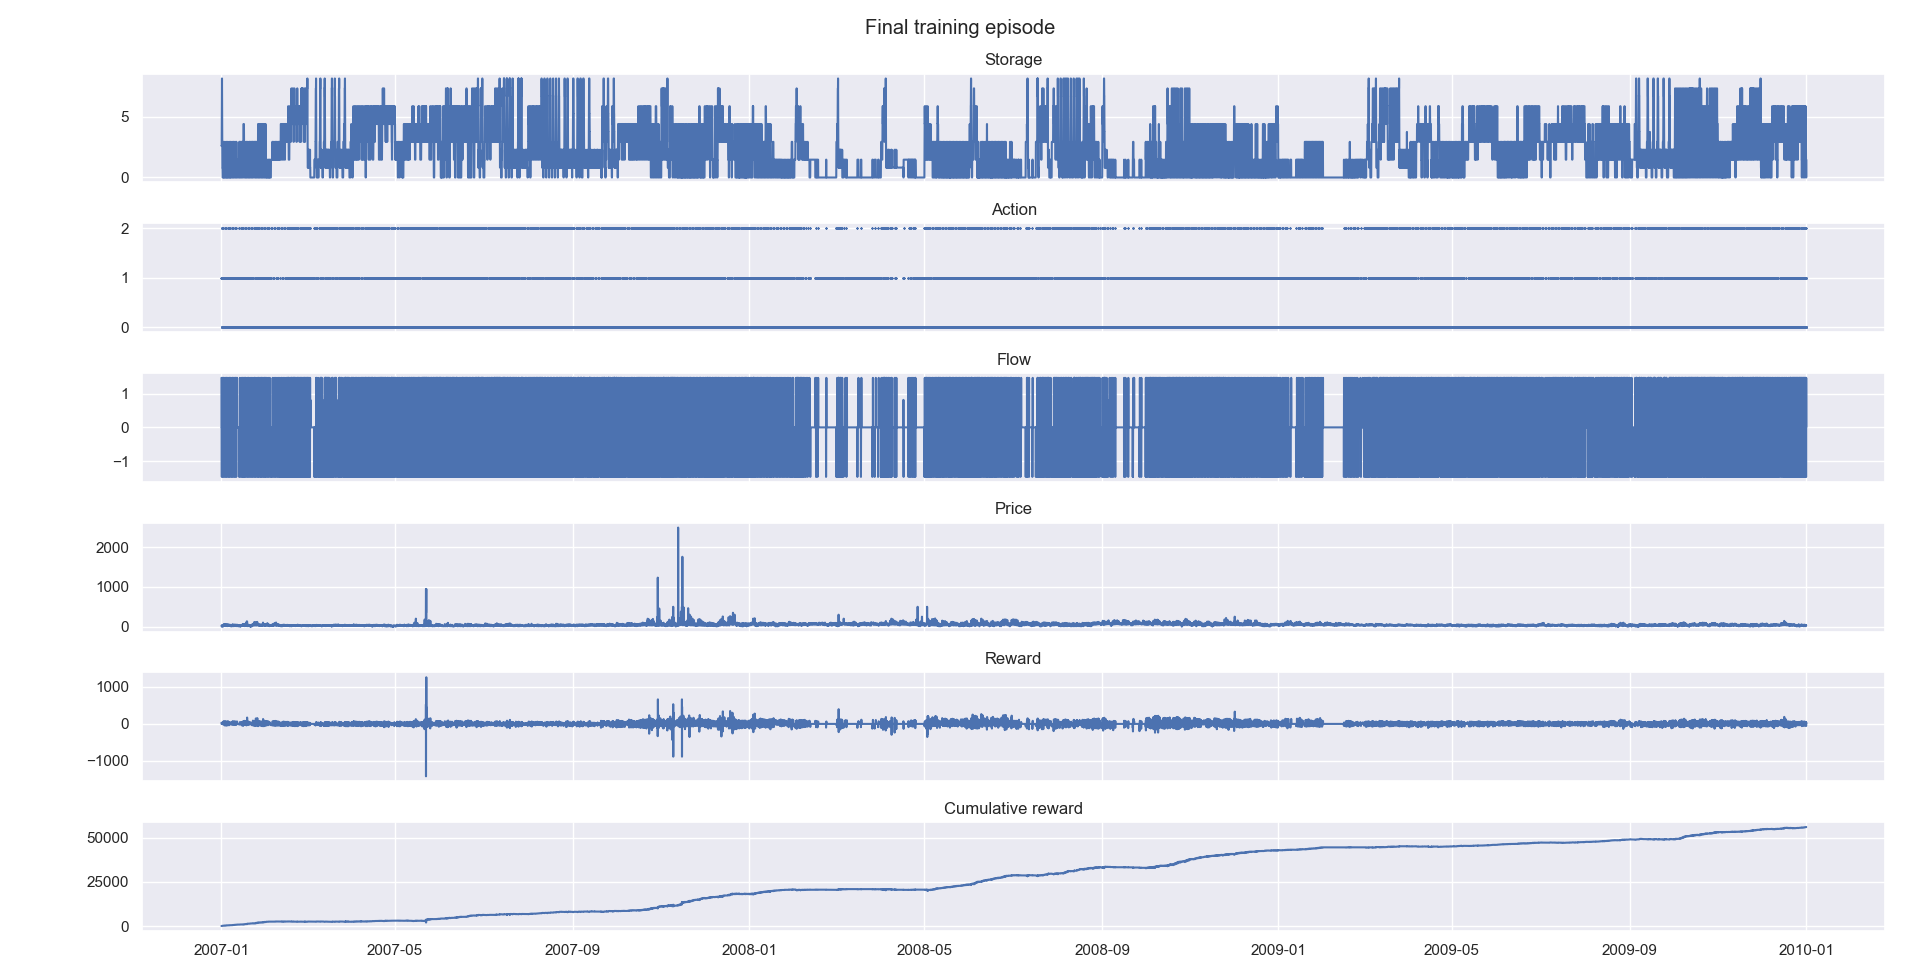
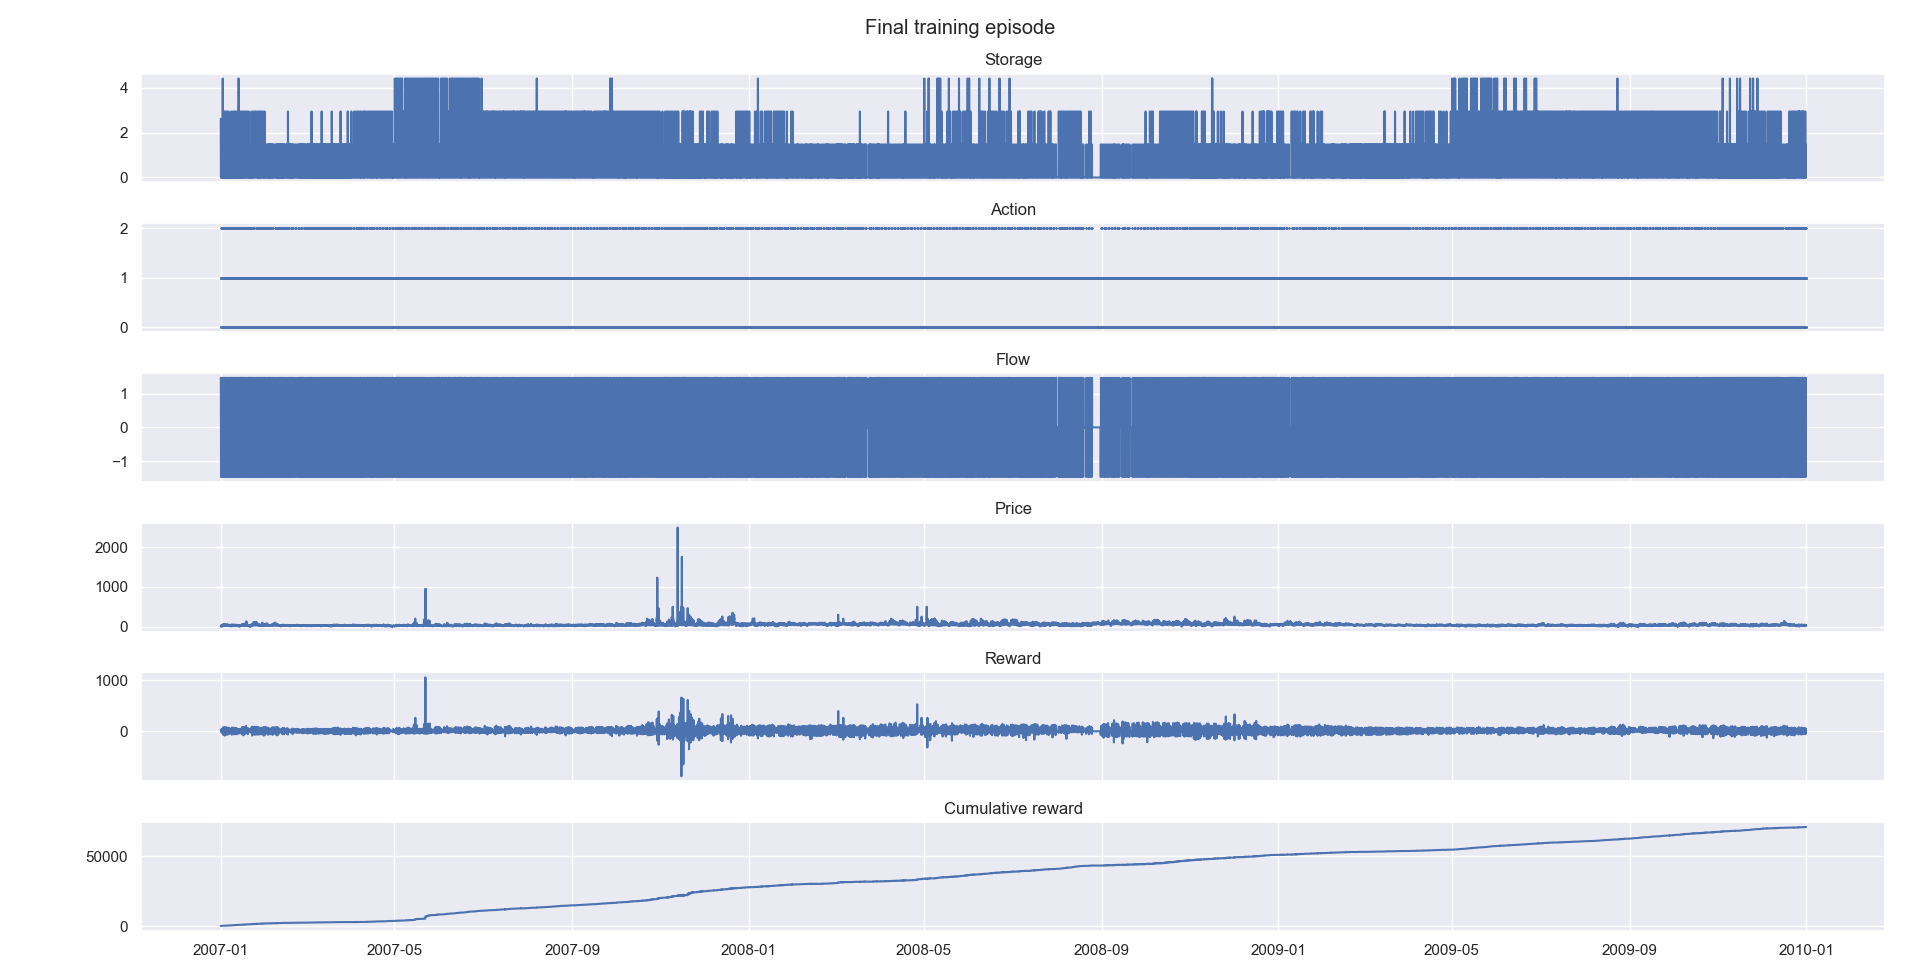
Add a price cap in env

diff --git a/src/environment.py b/src/environment.py
@@ -78,18 +78,24 @@ class DiscreteDamEnv(gym.Env):
     # a positive flow means emtpying the reservoir
     max_flow_rate = joule_to_mwh(5 * 1000 * 3600 * 9.81 * 30)  # 5 m^3/s to mwh
 
-    buy_multiplier = 1.25  # i.e. we spend 1.2 Kw to store 1 Kw (80% efficiency)
+    buy_multiplier = 1.2  # i.e. we spend 1.2 Kw to store 1 Kw (80% efficiency)
     sell_multiplier = 0.9  # i.e. we get 0.9 Kw for selling 1 Kw (90% efficiency)
 
     n_bins_price = 20
     n_bins_reservoir = 10
 
-    def __init__(self, price_data: dict[datetime, float], price_data_real: dict[datetime, float]):
+    def __init__(
+        self, price_data: dict[datetime, float], price_data_cap: None | float = None
+    ):
         super().__init__()
 
         self.price_data = dict(sorted(price_data.items()))
-        self.max_price = max(self.price_data.values())
-        self.price_data_real = dict(sorted(price_data_real.items()))
+
+        # cap the price data to a certain value, only applies for the returned state
+        if price_data_cap is None:
+            price_data_cap = max(self.price_data.values())
+
+        self.max_price = price_data_cap
 
         # 0 = do nothing
         # 1 = empty / sell
@@ -119,7 +125,9 @@ class DiscreteDamEnv(gym.Env):
         if price_data:
             self.price_data = dict(sorted(price_data.items()))
         else:
-            assert self.price_data and len(self.price_data) > 0, "No price data provided"
+            assert (
+                self.price_data and len(self.price_data) > 0
+            ), "No price data provided"
 
         # reservor starting level
         if start_amount == "random":
@@ -237,7 +245,12 @@ class DiscreteDamEnv(gym.Env):
         )
 
     def _get_price_bin(self):
-        return int(self.current_price // (self.max_price / self.n_bins_price))
+        price = self.current_price
+
+        if price > self.max_price:
+            price = self.max_price
+
+        return int(price // (self.max_price / self.n_bins_price))
 
     def _get_reservoir_bin(self):
         return int(
@@ -245,17 +258,12 @@ class DiscreteDamEnv(gym.Env):
         )
 
     def _get_reward(self, flow: float):
-
-        # price seen by agent is different than real price. Use real price to calculate reward,
-        # but use agent price to calculate state
-        real_price = self.price_data_real[self.current_date]
-
         # positive flow = selling
         if flow > 0:
-            return flow * self.sell_multiplier * real_price
+            return flow * self.sell_multiplier * self.current_price
 
         # negative flow = buying
-        return flow * self.buy_multiplier * real_price
+        return flow * self.buy_multiplier * self.current_price
 
     def plot_price_distribution(self):
         prices = list(self.price_data.values())

diff --git a/run.py b/run.py
@@ -10,13 +10,16 @@ if __name__ == "__main__":
 
     # load data
     train_data = pd.read_excel(Path(__file__).parent / "data" / "train.xlsx")
-    train_data, train_data_real = convert_dataframe(train_data)
+    train_data = convert_dataframe(train_data)
 
     val_data = pd.read_excel(Path(__file__).parent / "data" / "validate.xlsx")
     val_data = convert_dataframe(val_data)
 
+    # determine quantile to cap the price for the bins at
+    # price_quantile = pd.Series(train_data.values()).quantile(0.99)
+
     # create environment and agent
-    environment = DiscreteDamEnv(train_data, train_data_real)
+    environment = DiscreteDamEnv(train_data, 200)
     agent = Agent(environment)
 
     # train agent
@@ -30,12 +33,9 @@ if __name__ == "__main__":
         "epsilon_greedy", n_episodes, epsilon, epsilon_decay, alpha, random_startpoint
     )
 
-
-    agent.env.episode_data.plot()
     agent.env.plot_price_distribution()
     agent.env.episode_data.plot("Final training episode")
 
     # validate agent
     agent.validate(price_data=val_data)
     agent.env.episode_data.plot("Validation episode")
-

diff --git a/src/utils.py b/src/utils.py
@@ -19,15 +19,7 @@ def convert_dataframe(df: pd.DataFrame) -> dict[datetime, float]:
     df.drop(columns=["date", "variable"], inplace=True)
     df.set_index("datetime", inplace=True)
 
-    # keep track of real price
-    df_real = df.copy(deep=True)
-
-    # calculate upper 99% quantile
-    upper_99 = df["value"].quantile(0.99)
-    #replace values above upper 99% quantile with upper 99% quantile
-    df.loc[df["value"] > upper_99, "value"] = upper_99
-
-    return df["value"].to_dict(), df_real["value"].to_dict()
+    return df["value"].to_dict()
 
 
 def joule_to_mwh(joule: float):
